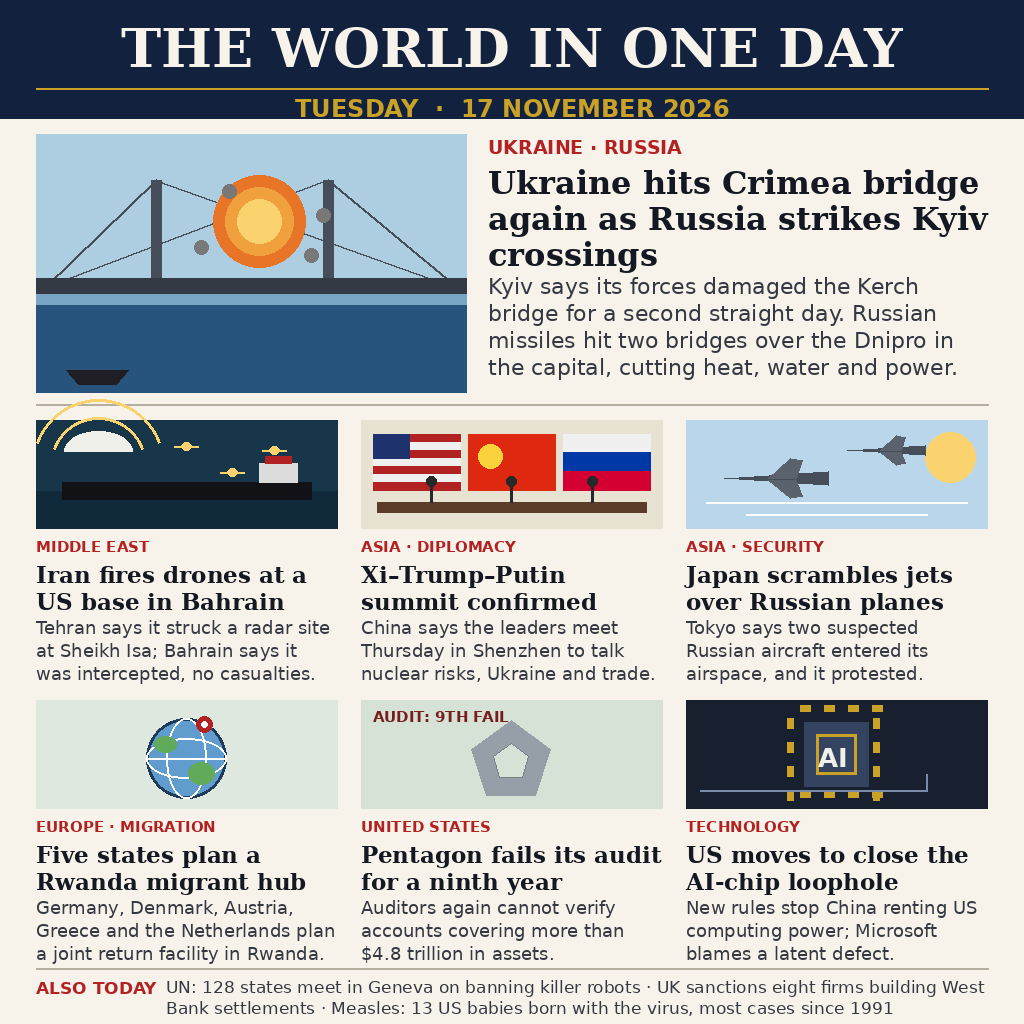
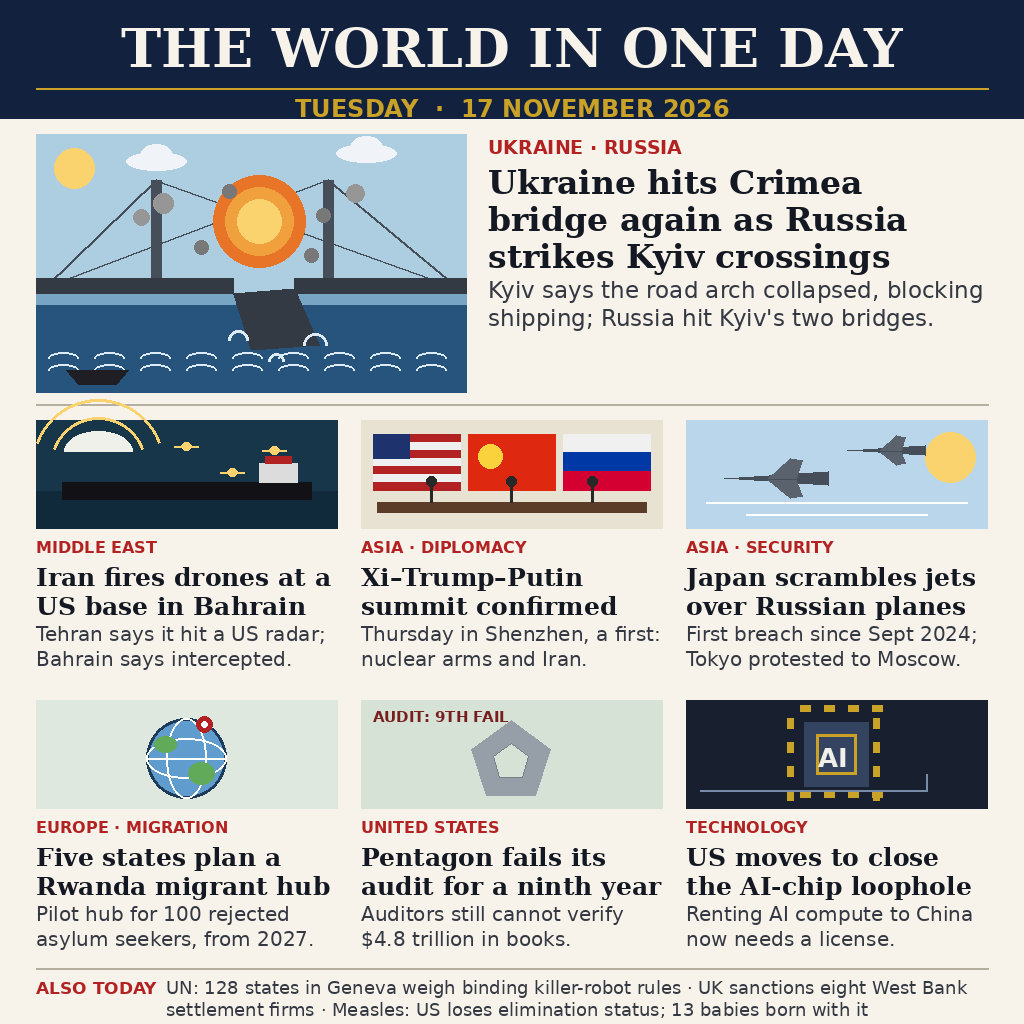
Improved poster: verified facts, shorter decks, larger type, pictorial lead

diff --git a/gen_poster.py b/gen_poster.py
@@ -1,7 +1,12 @@
 """Draw the 17 November 2026 world-news poster (1024x1024 PNG).
 
-Every story below is a real event reported on Tuesday 17 November 2026
-(sources: Al Jazeera, Reuters, AP, NPR, Just Security, Zark News).
+Every story below is a real event reported on Tuesday 17 November 2026,
+verified 18 Nov against: Reuters (Kerch bridge, Kyiv bridges, summit,
+Rwanda hub, UK sanctions), AP via NPR (Kerch), IRGC/Bahrain Defence Force
+via Reuters/TBS (Bahrain drones), Kyodo via Reuters (Japan airspace),
+The Hill / Pentagon Inspector General (audit), US Commerce Dept BIS /
+Reuters (AI-chip rule), France 24 / AP (Geneva killer-robots talks),
+gov.uk (UK sanctions), PAHO / CDC via NEJM Evidence (measles).
 The image is rendered once, locally, and committed as entry.png; main.py
 only copies it to the grader's output directory.
 """
@@ -44,8 +49,8 @@ def wrap(draw, text, fnt, width):
 
 
 def draw_text_block(draw, x, y, width, kicker, headline, deck,
-                    kicker_size=17, head_size=25, deck_size=19,
-                    head_font=SERIF_B, max_head_lines=3, max_deck_lines=4):
+                    kicker_size=17, head_size=25, deck_size=20,
+                    head_font=SERIF_B, max_head_lines=3, max_deck_lines=2):
     """Kicker + headline + deck; returns the y below the block."""
     kf, hf, df = font(SANS_B, kicker_size), font(head_font, head_size), font(SANS, deck_size)
     draw.text((x, y), kicker, font=kf, fill=RED)
@@ -63,8 +68,14 @@ def draw_text_block(draw, x, y, width, kicker, headline, deck,
 # ---------- small flat illustrations ----------
 
 def ill_bridge(d, x, y, w, h):
-    """Kerch bridge over the strait, blast plume on the deck."""
+    """Kerch bridge over the strait, road arch collapsed into the water."""
     d.rectangle([x, y, x + w, y + h], fill=(173, 205, 224))
+    # sun and clouds
+    d.ellipse([x + 18, y + 14, x + 58, y + 54], fill=(250, 210, 110))
+    for cx, cy in ((x + 120, y + 26), (x + 330, y + 18)):
+        d.ellipse([cx - 30, cy - 8, cx + 30, cy + 10], fill=(240, 244, 248))
+        d.ellipse([cx - 16, cy - 16, cx + 16, cy + 6], fill=(240, 244, 248))
+    # strait
     d.rectangle([x, y + int(h * 0.62), x + w, y + h], fill=(38, 84, 124))
     d.rectangle([x, y + int(h * 0.62), x + w, y + int(h * 0.66)], fill=(120, 165, 195))
     # towers and cables
@@ -72,14 +83,31 @@ def ill_bridge(d, x, y, w, h):
         d.rectangle([tx - 5, y + int(h * 0.18), tx + 5, y + int(h * 0.62)], fill=(70, 78, 90))
         d.line([tx, y + int(h * 0.18), x + 8, y + int(h * 0.60)], fill=(70, 78, 90), width=2)
         d.line([tx, y + int(h * 0.18), x + w - 8, y + int(h * 0.60)], fill=(70, 78, 90), width=2)
-    d.rectangle([x, y + int(h * 0.56), x + w, y + int(h * 0.62)], fill=(52, 58, 68))
+    # deck, broken at the blast: left span intact, right span stops short
+    d.rectangle([x, y + int(h * 0.56), x + int(w * 0.46), y + int(h * 0.62)], fill=(52, 58, 68))
+    d.rectangle([x + int(w * 0.60), y + int(h * 0.56), x + w, y + int(h * 0.62)], fill=(52, 58, 68))
+    # fallen arch segment, tilted into the strait, with splash
+    d.polygon([(x + int(w * 0.46), y + int(h * 0.62)),
+               (x + int(w * 0.60), y + int(h * 0.60)),
+               (x + int(w * 0.66), y + int(h * 0.82)),
+               (x + int(w * 0.50), y + int(h * 0.84))], fill=(52, 58, 68))
+    for sx, sy, r in ((x + int(w * 0.47), y + int(h * 0.80), 10),
+                      (x + int(w * 0.65), y + int(h * 0.82), 12),
+                      (x + int(w * 0.56), y + int(h * 0.88), 8)):
+        d.arc([sx - r, sy - r, sx + r, sy + r], 180, 360, fill=(220, 235, 245), width=3)
     # blast plume
     cx, cy = x + int(w * 0.52), y + int(h * 0.34)
     for r, col in ((46, (232, 116, 39)), (34, (240, 160, 60)), (22, (250, 210, 110))):
         d.ellipse([cx - r, cy - r, cx + r, cy + r], fill=col)
     for dx, dy in ((-58, 26), (52, 34), (-30, -30), (64, -6)):
         d.ellipse([cx + dx - 7, cy + dy - 7, cx + dx + 7, cy + dy + 7], fill=(120, 120, 120))
-    # small boat
+    # drifting smoke
+    for dx, dy, r in ((-96, -18, 10), (-118, -4, 8), (96, -28, 9)):
+        d.ellipse([cx + dx - r, cy + dy - r, cx + dx + r, cy + dy + r], fill=(150, 150, 150))
+    # waves and a small boat held back from the gap
+    for wy in (y + h - 40, y + h - 28):
+        for wx in range(x + 12, x + w - 20, 46):
+            d.arc([wx, wy, wx + 30, wy + 12], 180, 360, fill=(220, 235, 245), width=2)
     d.polygon([(x + 30, y + h - 22), (x + 92, y + h - 22), (x + 80, y + h - 8), (x + 42, y + h - 8)],
               fill=(30, 30, 36))
 
@@ -221,34 +249,27 @@ def main():
     ill_bridge(d, M, ly, 430, 258)
     draw_text_block(d, M + 452, ly + 2, W - M - (M + 452), "UKRAINE · RUSSIA",
                     "Ukraine hits Crimea bridge again as Russia strikes Kyiv crossings",
-                    "Kyiv says its forces damaged the Kerch bridge for a second "
-                    "straight day. Russian missiles hit two bridges over the Dnipro "
-                    "in the capital, cutting heat, water and power.",
-                    kicker_size=19, head_size=32, deck_size=22,
-                    max_head_lines=3, max_deck_lines=4)
+                    "Kyiv says the road arch collapsed, blocking shipping; "
+                    "Russia hit Kyiv's two bridges.",
+                    kicker_size=19, head_size=33, deck_size=23,
+                    max_head_lines=3, max_deck_lines=2)
     d.line([M, 404, W - M, 404], fill=RULE, width=2)
 
     # two rows of three stories
     col_w = (W - 2 * M - 2 * 24) // 3
     stories = [
         ("MIDDLE EAST", "Iran fires drones at a US base in Bahrain",
-         "Tehran says it struck a radar site at Sheikh Isa; Bahrain says "
-         "it was intercepted, no casualties.", ill_radar),
+         "Tehran says it hit a US radar; Bahrain says intercepted.", ill_radar),
         ("ASIA · DIPLOMACY", "Xi–Trump–Putin summit confirmed",
-         "China says the leaders meet Thursday in Shenzhen to talk "
-         "nuclear risks, Ukraine and trade.", ill_summit),
+         "Thursday in Shenzhen, a first: nuclear arms and Iran.", ill_summit),
         ("ASIA · SECURITY", "Japan scrambles jets over Russian planes",
-         "Tokyo says two suspected Russian aircraft entered its airspace, "
-         "and it protested.", ill_jets),
+         "First breach since Sept 2024; Tokyo protested to Moscow.", ill_jets),
         ("EUROPE · MIGRATION", "Five states plan a Rwanda migrant hub",
-         "Germany, Denmark, Austria, Greece and the Netherlands plan a "
-         "joint return facility in Rwanda.", ill_globe),
+         "Pilot hub for 100 rejected asylum seekers, from 2027.", ill_globe),
         ("UNITED STATES", "Pentagon fails its audit for a ninth year",
-         "Auditors again cannot verify accounts covering more than $4.8 "
-         "trillion in assets.", ill_pentagon),
+         "Auditors still cannot verify $4.8 trillion in books.", ill_pentagon),
         ("TECHNOLOGY", "US moves to close the AI-chip loophole",
-         "New rules stop China renting US computing power; Microsoft "
-         "blames a latent defect.", ill_chip),
+         "Renting AI compute to China now needs a license.", ill_chip),
     ]
     row_ys = [420, 700]
     for i, (kicker, head, deck, ill) in enumerate(stories):
@@ -257,21 +278,21 @@ def main():
         y = row_ys[row]
         ill(d, x, y, col_w, 108)
         draw_text_block(d, x, y + 118, col_w, kicker, head, deck,
-                        kicker_size=15, head_size=23, deck_size=18,
-                        max_head_lines=2, max_deck_lines=3)
+                        kicker_size=16, head_size=25, deck_size=20,
+                        max_head_lines=2, max_deck_lines=2)
     d.line([M, 968, W - M, 968], fill=RULE, width=2)
 
     # also-today strip
     y = 978
     d.text((M, y), "ALSO TODAY", font=font(SANS_B, 17), fill=RED)
-    items = ("UN: 128 states meet in Geneva on banning killer robots   ·   "
-             "UK sanctions eight firms building West Bank settlements   ·   "
-             "Measles: 13 US babies born with the virus, most cases since 1991")
-    lines = wrap(d, items, font(SANS, 17), W - 2 * M - 130)
+    items = ("UN: 128 states in Geneva weigh binding killer-robot rules   ·   "
+             "UK sanctions eight West Bank settlement firms   ·   "
+             "Measles: US loses elimination status; 13 babies born with it")
+    lines = wrap(d, items, font(SANS, 18), W - 2 * M - 130)
     yy = y - 1
     for ln in lines[:2]:
-        d.text((M + 130, yy), ln, font=font(SANS, 17), fill=(52, 56, 66))
-        yy += 21
+        d.text((M + 130, yy), ln, font=font(SANS, 18), fill=(52, 56, 66))
+        yy += 22
 
     img.save("entry.png", optimize=True)
     print("saved entry.png")

diff --git a/README.md b/README.md
@@ -4,7 +4,7 @@
 [![rank](https://make.fun/badge/news-image-20261117/sixtyseconds5/news-image-20261117/rank.svg)](https://make.fun/bounty/news-image-20261117/leaderboard?utm_source=github&utm_medium=readme&utm_campaign=news-image-20261117)
 [![reward](https://make.fun/badge/news-image-20261117/sixtyseconds5/news-image-20261117/reward.svg)](https://make.fun/bounty/news-image-20261117?utm_source=github&utm_medium=readme&utm_campaign=news-image-20261117)
 
-A program that writes one image summing up Tuesday 17 November 2026's world news: a newspaper-style poster with the day's biggest stories — Ukraine's second strike on the Kerch bridge and Russia's strikes on Kyiv's bridges, Iran's drone attack on a US base in Bahrain, the confirmed Xi–Trump–Putin summit, Japan scrambling jets, the five-state Rwanda migrant hub plan, the Pentagon's ninth failed audit, and the US move to close the AI-chip loophole — drawn with Pillow and committed as `entry.png`.
+A program that writes one image summing up Tuesday 17 November 2026's world news: a newspaper-style poster with the day's biggest stories — Ukraine's second strike on the Kerch bridge, collapsing its road arch, and Russia's strikes on Kyiv's two bridges; Iran's drone attack on a US radar at Bahrain's Sheikh Isa base; the confirmed first Xi–Trump–Putin summit in Shenzhen; Japan scrambling jets over two suspected Russian planes; the five-state Rwanda migrant hub plan; the Pentagon's ninth failed audit; and the US move to close the AI-chip loophole — plus an also-today strip on the Geneva killer-robot talks, UK sanctions on West Bank settlement firms, and the US losing measles elimination status — drawn with Pillow and committed as `entry.png`.
 
 ## Run it
 
@@ -22,7 +22,7 @@ python3 gen_poster.py
 
 - `main.py` — the entrypoint. Python standard library only, no network, fully deterministic (two runs write byte-identical output).
 - `gen_poster.py` — draws `entry.png` from the day's reported news.
-- `entry.png` — the poster: 1024×1024, about 130 KB.
+- `entry.png` — the poster: 1024×1024, about 118 KB.
 - `README.md` — this file.
 - `LICENSE` — MIT.
 
